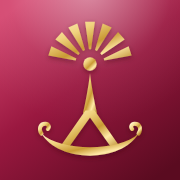
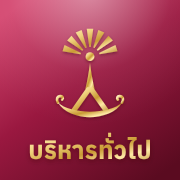
ไอคอนแอปมีคำ บริหารทั่วไป + ลายน้ำชัดขึ้น (#16)
Claude-Session: https://claude.ai/code/session_018dKBF5LZNCiBTDXc8j8nfA

Changed region(s): [[0.1389, 0.1111, 0.8333, 0.8889]]

diff --git a/src/index.css b/src/index.css
@@ -645,11 +645,11 @@ td.num { font-variant-numeric: tabular-nums; }
 /* ลายน้ำ: สัญลักษณ์จากตรา จางๆ อยู่หลังเนื้อหาทุกหน้า */
 .wm {
   position: fixed; z-index: 0; pointer-events: none; right: -110px; bottom: -40px; width: min(560px, 120vw); aspect-ratio: 320 / 404;
-  background: linear-gradient(160deg, #b98a2c, #7a1530 75%); opacity: .06;
+  background: linear-gradient(160deg, #b98a2c, #7a1530 75%); opacity: .12;
   -webkit-mask: url(/mark.svg) center / contain no-repeat; mask: url(/mark.svg) center / contain no-repeat;
 }
 @media (min-width: 900px) { .wm { right: -60px; width: 620px; } }
-@media (prefers-color-scheme: dark) { .wm { opacity: .07; background: linear-gradient(160deg, #e4c06a, #d9467a 75%); } }
+@media (prefers-color-scheme: dark) { .wm { opacity: .12; background: linear-gradient(160deg, #e4c06a, #d9467a 75%); } }
 .shell { position: relative; isolation: isolate; }
 .shell > :not(.wm) { position: relative; z-index: 1; }
 .shell > .sidebar { position: sticky; }

diff --git a/public/sw.js b/public/sw.js
@@ -2,7 +2,7 @@
 // - หน้าเว็บ (navigation): ดึงจากเน็ตก่อน ถ้าออฟไลน์ใช้ตัวที่ cache ไว้
 // - /assets/* (ชื่อไฟล์มี hash): cache ก่อน
 // - ไม่แตะ request ไป Supabase หรือโดเมนอื่น ข้อมูลจริงต้องมาจากเซิร์ฟเวอร์เสมอ
-const VERSION = "v6"; // v6: ดีไซน์รอบ 2 (สีประจำงาน ไอคอนใหม่ ฟอนต์ Anuphan)
+const VERSION = "v7"; // v7: ไอคอนแอปมีคำ "บริหารทั่วไป" + ลายน้ำชัดขึ้น
 const SHELL = `shell-${VERSION}`;
 const ASSETS = `assets-${VERSION}`;
 const PRECACHE = ["/", "/manifest.webmanifest", "/favicon.svg", "/favicon.png", "/school-logo.png", "/icon-192.png", "/icon-512.png"];

diff --git a/CLAUDE.md b/CLAUDE.md
@@ -8,8 +8,8 @@
 - `src/App.tsx` = auth gate (Google, จำกัด @wangluangpitt.ac.th) + nav; หน้าอยู่ใน `src/pages/*` (lazy)
 - `src/lib/supabase.ts` = client (storageKey `school-admin-auth`), types, `errText()` แปล error เป็นไทย
 - จองรถ 3 ขั้น: `pending`(หัวหน้างานยานพาหนะ) → `pending_deputy` → `pending_director` → `approved`; ส่งกลับ = ขั้นก่อนหน้า (`returned` = กลับผู้ขอ); ทำผ่าน RPC `review_vehicle_booking` / `resubmit_vehicle_booking` เท่านั้น ประวัติอยู่ `vehicle_booking_steps`; หลังอนุมัติ: `approved` → `on_trip` (`start_vehicle_trip`: ไมล์ก่อนออก + checklist ครบ) → `completed` (`close_vehicle_trip`: ไมล์กลับ + น้ำมัน) บันทึกโดย vehicle_head/admin ใน `vehicle_trips` (คนขับไม่มีบัญชี); ผอ. ยุติเรื่องด้วย `reject_vehicle_booking` → `rejected`; คนขับใบขับขี่หมดก่อนวันกลับ → `license_expired`; ค่าคงที่ฝั่ง UI อยู่ `src/lib/vehicle.ts`
-- ดีไซน์รอบ 2 (`src/index.css` ส่วนท้าย "ดีไซน์รอบ 2" ทับกฎเดิม; แบบร่างที่ผู้ใช้เลือก = "ข · เบนโตสีเต็ม"): พื้นสว่าง `--bg` #f4f3f7 การ์ดไม่มีขอบ เงาบาง มุมมน 20px; **สีของโรงเรียน** เบอร์กันดี (ปุ่มหลัก/เรื่องที่รอคุณ/งานฝ่าย) + ทอง (ขอบตรา ลายน้ำ); **สีประจำงาน** ใช้ซ้ำทั้งระบบผ่านคลาส `.c-room` (คราม) `.c-car` (เขียวน้ำทะเล) `.c-fix` (ส้ม) `.c-wc` (ฟ้า) `.c-ga` (เบอร์กันดี) ซึ่งตั้งตัวแปร `--a/--b/--t/--k` (เข้ม/สว่าง/พื้นป้าย/ตัวอักษรบนพื้นป้าย) — เมนู (`NAV[].mod` ใน App.tsx), แผ่นสีหน้าแรก (`.bento .bx`), หัวหน้าหน้าข้างใน (`.mhero`), จุดในปฏิทิน (`lib/gaKinds.ts`); ไอคอน/แผ่นสีแบบกลอสซี่ `.gloss` (ไล่สี + แสงสะท้อนครึ่งบน); ลายน้ำ `.wm` = สัญลักษณ์จากตรา (`/mark.svg` เป็น mask) จางๆ fixed หลังเนื้อหาทุกหน้า ห้ามทำให้เด่น (ผู้ใช้ขอให้ "แค่มีอยู่"); ผู้ใช้ไม่ชอบ: ลายไทย/ทองคำเปลว/ฟอนต์พิธี (ดู "ลิเก"), สูตรแอปทั่วไปที่แค่เปลี่ยนสี (ดู slop); ฟอนต์ Anuphan ทั้งระบบ (`--font-display`/`--font-body`), อักษรย่อในรูปโปรไฟล์ใช้ IBM Plex Sans Thai Looped (`--font-initial`) เพราะ พ ของฟอนต์ไม่มีหัวดูเป็น W, Sarabun = เอกสารพิมพ์ราชการเท่านั้น; ไอคอน `lucide-react`; ปุ่มสร้างรายการบนมือถือเป็นปุ่มลอย `.fab`
-- โลโก้ระบบ `src/components/Mark.tsx` / `public/mark.svg` (เส้นจากตรา: รัศมี ยอด วงเวียน เรือ) ใช้เป็นลายน้ำและในหน้าเข้าสู่ระบบ; ไอคอนแอป (`public/icon-*.png`, `apple-touch-icon.png`, `favicon.*`) = พื้นเบอร์กันดีไล่สีกลอสซี่ + สัญลักษณ์ทองมีประกาย สร้างจาก SVG ด้วย Playwright (maskable ย่อสัญลักษณ์ให้อยู่ในวงกลม 80%); ตราโรงเรียนจริง (`school-logo.png`) แสดงบนวงกลมขาวขอบทอง `.seal` (แถบบนมือถือ/แถบข้าง/หัวหน้าแรกบนคอม)
+- ดีไซน์รอบ 2 (`src/index.css` ส่วนท้าย "ดีไซน์รอบ 2" ทับกฎเดิม; แบบร่างที่ผู้ใช้เลือก = "ข · เบนโตสีเต็ม"): พื้นสว่าง `--bg` #f4f3f7 การ์ดไม่มีขอบ เงาบาง มุมมน 20px; **สีของโรงเรียน** เบอร์กันดี (ปุ่มหลัก/เรื่องที่รอคุณ/งานฝ่าย) + ทอง (ขอบตรา ลายน้ำ); **สีประจำงาน** ใช้ซ้ำทั้งระบบผ่านคลาส `.c-room` (คราม) `.c-car` (เขียวน้ำทะเล) `.c-fix` (ส้ม) `.c-wc` (ฟ้า) `.c-ga` (เบอร์กันดี) ซึ่งตั้งตัวแปร `--a/--b/--t/--k` (เข้ม/สว่าง/พื้นป้าย/ตัวอักษรบนพื้นป้าย) — เมนู (`NAV[].mod` ใน App.tsx), แผ่นสีหน้าแรก (`.bento .bx`), หัวหน้าหน้าข้างใน (`.mhero`), จุดในปฏิทิน (`lib/gaKinds.ts`); ไอคอน/แผ่นสีแบบกลอสซี่ `.gloss` (ไล่สี + แสงสะท้อนครึ่งบน); ลายน้ำ `.wm` = สัญลักษณ์จากตรา (`/mark.svg` เป็น mask) opacity .12 fixed หลังเนื้อหาทุกหน้า (ผู้ใช้ขอให้ "แค่มีอยู่" แล้วขอให้ชัดขึ้นอีกหน่อย จาก .06 → .12); ผู้ใช้ไม่ชอบ: ลายไทย/ทองคำเปลว/ฟอนต์พิธี (ดู "ลิเก"), สูตรแอปทั่วไปที่แค่เปลี่ยนสี (ดู slop); ฟอนต์ Anuphan ทั้งระบบ (`--font-display`/`--font-body`), อักษรย่อในรูปโปรไฟล์ใช้ IBM Plex Sans Thai Looped (`--font-initial`) เพราะ พ ของฟอนต์ไม่มีหัวดูเป็น W, Sarabun = เอกสารพิมพ์ราชการเท่านั้น; ไอคอน `lucide-react`; ปุ่มสร้างรายการบนมือถือเป็นปุ่มลอย `.fab`
+- โลโก้ระบบ `src/components/Mark.tsx` / `public/mark.svg` (เส้นจากตรา: รัศมี ยอด วงเวียน เรือ) ใช้เป็นลายน้ำและในหน้าเข้าสู่ระบบ; ไอคอนแอป (`public/icon-*.png`, `apple-touch-icon.png`, `favicon.*`) = พื้นเบอร์กันดีไล่สีกลอสซี่ + สัญลักษณ์ทองมีประกาย + คำ "บริหารทั่วไป" ทอง (Anuphan) ใต้สัญลักษณ์ (favicon ไม่มีคำ เพราะเล็กเกินอ่าน) สร้างจาก SVG ด้วย Playwright (maskable ย่อสัญลักษณ์ให้อยู่ในวงกลม 80%); ตราโรงเรียนจริง (`school-logo.png`) แสดงบนวงกลมขาวขอบทอง `.seal` (แถบบนมือถือ/แถบข้าง/หัวหน้าแรกบนคอม)
 - หน้ารถมีแท็บ: รอพิจารณา · คำขอของฉัน · ปฏิทิน (`VehicleCalendar` รายเดือน) · รถ (`VehicleFleet` รูป/สภาพ/วันหมดอายุ พ.ร.บ. ภาษี ประกัน) · บันทึกเดินทาง · ภาพรวม (`VehicleDashboard` ผู้บริหาร; สีแท่ง `--chart-1` ผ่านตัวตรวจสีแล้ว อย่าใช้ `--burgundy` ตรงๆ เพราะเข้มเกิน); รูปรถ bucket private `vehicle-photos` อ่านผ่าน `useSignedUrls`; DB ไม่ให้จัดรถ `condition = maintenance`/ปิดใช้งาน (`vehicle_unavailable`) หรือ พ.ร.บ./ภาษีหมดก่อนวันกลับ (`vehicle_docs_expired`)
 - อนุมัติผ่าน LINE: edge function `supabase/functions/line-bot` (verify_jwt=false; ตรรกะล้วนใน `logic.ts` เทสต์ `node scripts/test_line_bot_logic.mjs`, ตรวจ type `deno check`) — รับ LINE webhook (ตรวจ x-line-signature) และแจ้งเตือนจาก trigger `private.notify_line` ผ่าน pg_net (ตรวจ x-notify-secret; URL/secret อยู่ `private.config` ไม่อยู่ใน repo); ตรรกะพิจารณาอยู่ที่ `review_vehicle_booking_as` / `reject_vehicle_booking_as` ที่เดียว ใช้ทั้งแอปและ `line_decide` (service_role เท่านั้น); ผูก LINE ด้วยรหัส 6 หลัก (`create_line_link_code` → ส่งในแชท → `line_link_account`); แอปอ่าน `line_user_id` ไม่ได้ เห็นแค่ `line_linked`; หัวหน้างานยานพาหนะส่งต่อจาก LINE ไม่ได้ (ต้องเลือกรถในแอป); secrets: LINE_CHANNEL_SECRET, LINE_CHANNEL_ACCESS_TOKEN (APP_URL ไม่บังคับ; secret ของ trigger อยู่ `private.config` ตรวจผ่าน `line_notify_secret_ok`); env แอป `VITE_LINE_OA_ID`
 - ติดตั้งแอป: `src/lib/install.ts` (จับ beforeinstallprompt ใน main.tsx, `useInstall`) + `components/Install.tsx` (`InstallButton` ในแถบข้าง/เมนูบัญชี/หน้าเข้าสู่ระบบ, `InstallNudge` หน้าแรก ปิดได้ 30 วัน); iPhone แสดงวิธี แชร์ → เพิ่มไปยังหน้าจอโฮม; เปิดในแอป LINE → ปุ่มเปิดเบราว์เซอร์ (`?openExternalBrowser=1`) เพราะ Google ไม่ให้ล็อกอินใน webview — ลิงก์ในการ์ดของบอทก็ใส่พารามิเตอร์นี้ (`externalUrl`)
